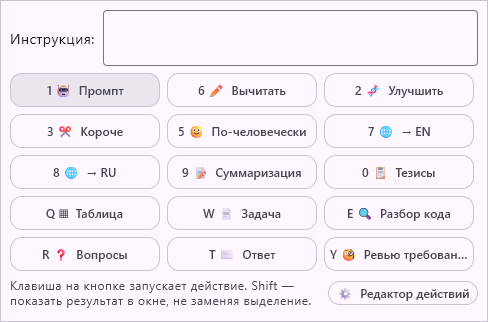
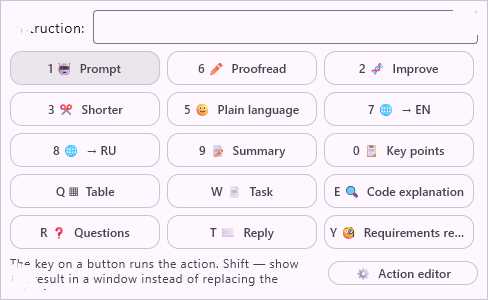
Show the installed 1.0 windows and correct the description.

diff --git a/README.md b/README.md
@@ -4,9 +4,29 @@ Tray application for the selected text. A hotkey runs an LLM action and pastes t
 
 Kotlin and Compose Desktop, version 1.0. The last AutoHotkey release is tag `v0.3.1` on branch `archive/ahk`. What changed is in `CHANGELOG.md`.
 
+Ctrl+Alt+Space opens the action grid when text is selected. Shift on an action shows the result in a window instead of replacing the selection. Ctrl+Shift+Space repeats the last action. Fifteen factory actions ship with the app, and the instruction field runs a free-form one.
+
+![Action menu](docs/assets/screenshots/en/menu.png)
+
+The tray menu opens the last result, history, statistics, the action editor and settings.
+
 ![Tray menu](docs/assets/screenshots/en/tray-menu.png)
 
-The tray menu opens the last result, history, statistics, the action editor and settings. Settings has three tabs: API, output languages, and interface (language, hotkeys, Markdown, autostart, profiling, error reports).
+Settings has three tabs. The API tab is the OpenAI-compatible address, the key, an optional proxy, the default model, and the model list with context and price per million tokens. The key and the proxy stay in the operating-system secret store.
+
+![API settings](docs/assets/screenshots/en/settings-api.png)
+
+Checked output languages appear on an action. A language can be added by hand.
+
+![Output languages](docs/assets/screenshots/en/settings-languages.png)
+
+The interface language is the bundled English or Russian translation. INI language packs are not loaded. This tab also has the hotkeys, Markdown in the result window, start with Windows, app profiling, and the two error-report switches, which start off.
+
+![Interface settings](docs/assets/screenshots/en/settings-interface.png)
+
+The result window copies the text or pastes it back into the source window.
+
+![Last result](docs/assets/screenshots/en/result.png)
 
 ## Windows installer
 

diff --git a/CHANGELOG.md b/CHANGELOG.md
@@ -7,4 +7,4 @@ TextTools on `main` is the Kotlin and Compose Desktop application. The AutoHotke
 - Downloads for this version are the Windows installer `TextTools-1.0.0.msi` and the Debian package `texttools_1.0.0_amd64.deb` attached to the GitHub release. The macOS disk image is built on a Mac with `sh packaging/macos/package-dmg.sh`.
 - The Windows installer follows the language of Windows for English, German, Japanese, Simplified Chinese and Russian. Russian system phrases that have no translation in the installer toolkit stay in English; the question about starting with Windows is translated.
 - Capture and paste into other windows work on Windows. The Linux and macOS builds open the tray.
-- The Windows build starts. The runtime includes `java.sql` and `java.net.http`, which the database driver and the settings API check need. The installer can create a desktop shortcut and a Start menu shortcut, start with Windows, and launch the app when setup finishes. The license shown is the MIT text from this repository, and the about link is https://github.com/BelyaevAD/TextTools.
+- The Windows build starts. The runtime includes `java.sql` and `java.net.http`, which the database driver and the settings API check need. The Debian package on the v1.0 release includes the same modules. The installer can create a desktop shortcut and a Start menu shortcut, start with Windows, and launch the app when setup finishes. The license shown is the MIT text from this repository, and the about link is https://github.com/BelyaevAD/TextTools.
